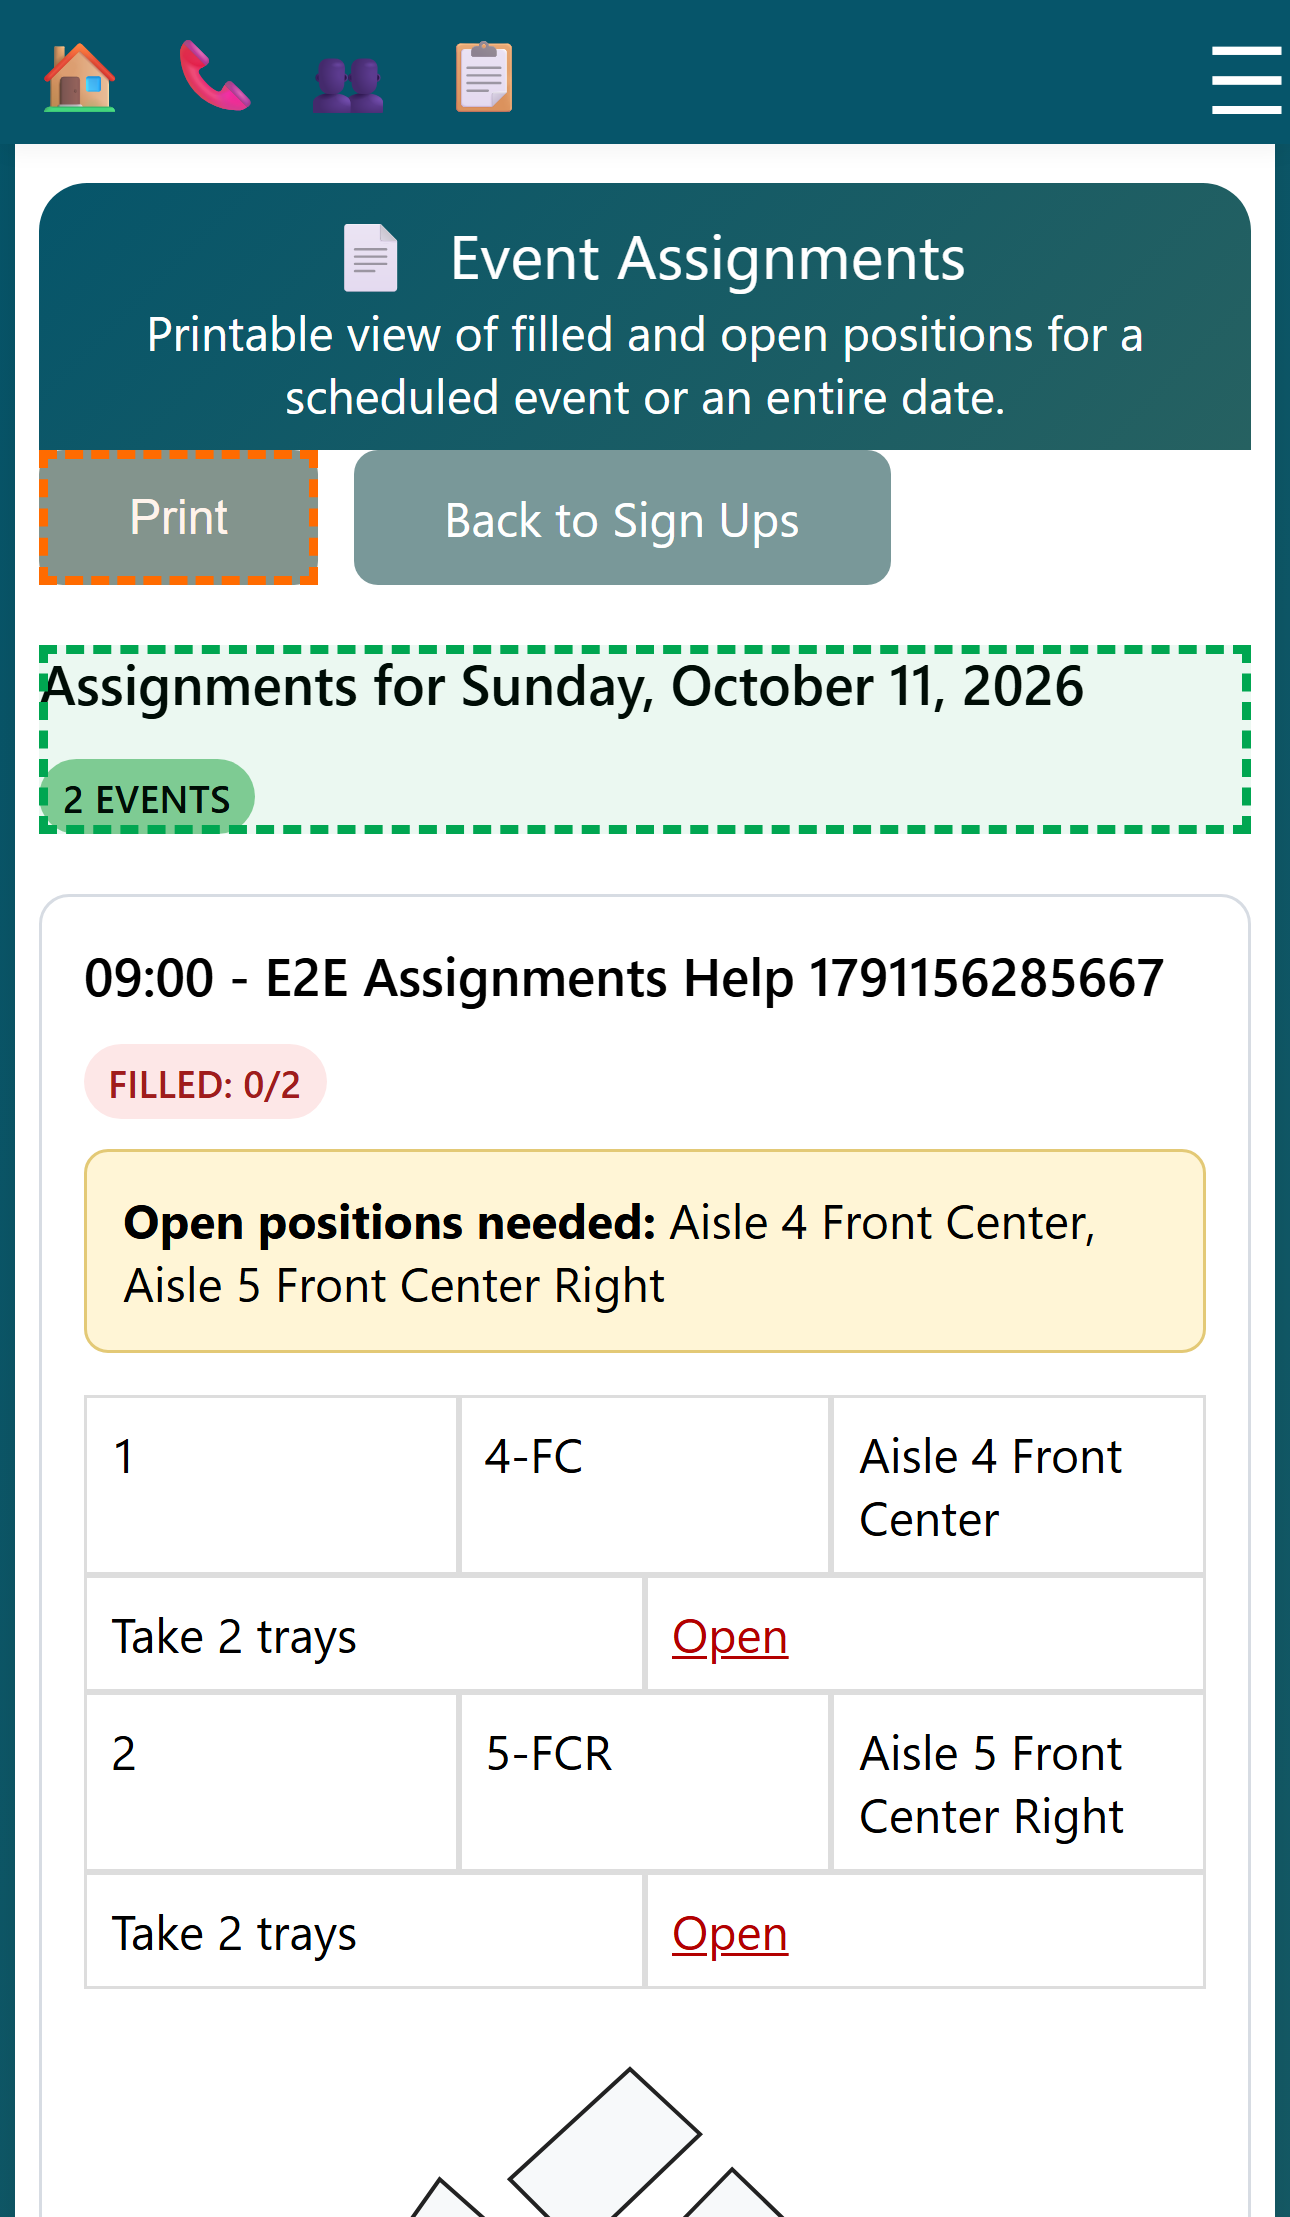
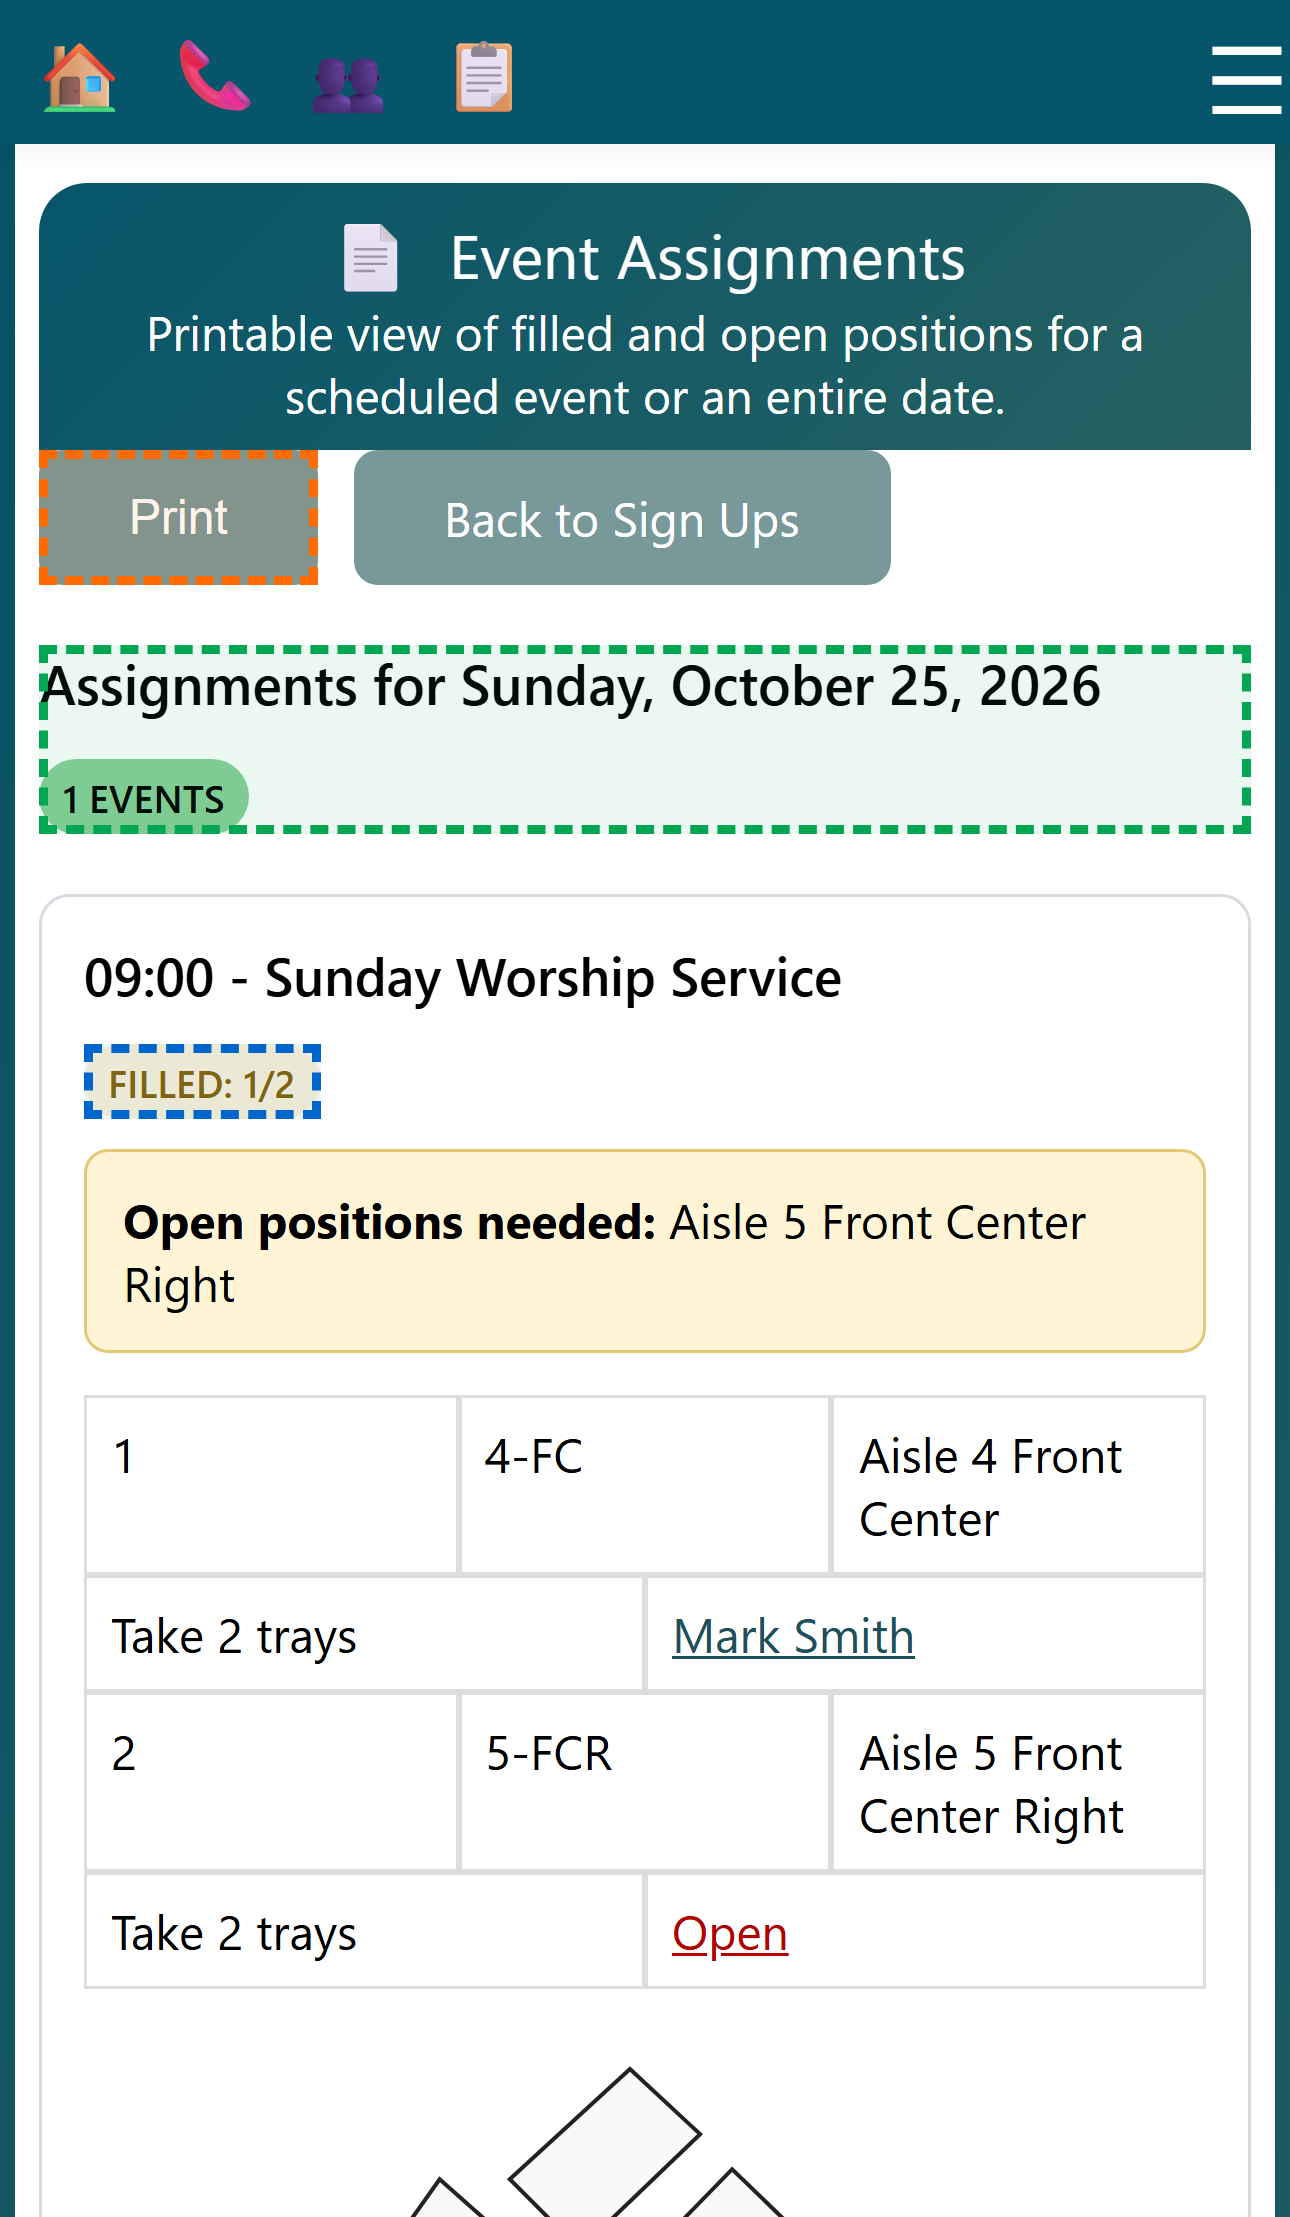
Fix event assignments Filled counts and Clear Assignment
- Return status inside event for /api/event-assignments (no extra queries)
- Clear every signup holding a position, not just the first
- Add unit and e2e coverage; refresh event-assignments help images

diff --git a/test/e2e/screenshots/event-assignments.spec.js b/test/e2e/screenshots/event-assignments.spec.js
@@ -1,11 +1,11 @@
 import { test, expect } from '@playwright/test';
 import { DEMO, highlightElement, loginAsEmail, seedDemoData, takeHelpScreenshot } from './capture-helpers.js';
 
-function getNextSundayDate() {
+function getNextSundayDate(weeksAhead = 0) {
   const date = new Date();
   const day = date.getDay();
   const daysUntilSunday = day === 0 ? 7 : 7 - day;
-  date.setDate(date.getDate() + daysUntilSunday);
+  date.setDate(date.getDate() + daysUntilSunday + weeksAhead * 7);
   return date.toISOString().split('T')[0];
 }
 
@@ -29,13 +29,14 @@ async function seedSchedulableEventType(page, eventType, title) {
 }
 
 test.describe('event assignments help screenshots', () => {
-  test('capture event assignments event view', async ({ page, request }) => {
+  test('capture event assignments event view', async ({ page, request }, testInfo) => {
     const stamp = Date.now();
     const eventType = `e2e-assignments-help-${stamp}`;
-    const eventTitle = `E2E Assignments Help ${stamp}`;
-    const serviceDate = getNextSundayDate();
+    const eventTitle = 'Sunday Worship Service';
+    // Projects share one server, so give each its own Sunday to keep the date view to a single event.
+    const serviceDate = getNextSundayDate(testInfo.project.name.includes('mobile') ? 1 : 0);
 
-    await seedDemoData(request);
+    const demo = await seedDemoData(request);
     await loginAsEmail(page, DEMO.staffEmail);
     await seedSchedulableEventType(page, eventType, eventTitle);
 
@@ -50,6 +51,13 @@ test.describe('event assignments help screenshots', () => {
     expect(createResponse.ok()).toBeTruthy();
     const created = await createResponse.json();
     expect(created.id).toBeTruthy();
+
+    // Fill one of the two positions so the Filled badge shows a realistic partial count.
+    const assignResponse = await page.request.put(`/api/events/${encodeURIComponent(created.id)}/assignments`, {
+      headers: { 'content-type': 'application/json' },
+      data: { assignments: [{ positionId: '4-FC', memberId: demo.deaconId }] }
+    });
+    expect(assignResponse.ok()).toBeTruthy();
 
     await page.goto(`/event-assignments.html?serviceDate=${encodeURIComponent(serviceDate)}`);
     await page.waitForLoadState('networkidle');
@@ -67,7 +75,12 @@ test.describe('event assignments help screenshots', () => {
     await expect(assignmentHeader).toBeVisible();
     await expect(assignmentsTableWrap).toBeVisible();
     await expect(page.locator('.worship-map').first()).toBeVisible();
+    const filledBadge = page.getByText('Filled: 1/2');
+    await expect(filledBadge).toBeVisible();
+    await expect(page.locator('.assignment-edit-trigger', { hasText: DEMO.deaconFirstName })).toHaveCount(1);
+    await expect(page.locator('.assignment-edit-trigger', { hasText: 'Open' })).toHaveCount(1);
 
+    await highlightElement(page, filledBadge, 'blue');
     await highlightElement(page, assignmentHeader, 'green');
     await highlightElement(page, printButton, 'orange');
     await takeHelpScreenshot(page, 'event-assignments-event.png');

diff --git a/test/events-api.test.js b/test/events-api.test.js
@@ -385,7 +385,10 @@ describe('events API routes', () => {
       headers: { 'x-api-key': 'test-generation-key' }
     });
     expect(dateAssignmentsResponse.status).toBe(200);
-    expect((await dateAssignmentsResponse.json())[0].canManageAssignments).toBe(true);
+    const dateAssignments = await dateAssignmentsResponse.json();
+    expect(dateAssignments[0].canManageAssignments).toBe(true);
+    expect(dateAssignments[0].event.status).toEqual(dateAssignments[0].status);
+    expect(dateAssignments[0].event.status.totalPositions).toBeGreaterThan(0);
 
     const saveResponse = await app.request(`/api/events/${created.id}/assignments`, {
       method: 'PUT',
@@ -396,6 +399,37 @@ describe('events API routes', () => {
       body: JSON.stringify({ assignments: [{ positionId: 'P2', memberId: 'member-1' }] })
     });
     expect(saveResponse.status).toBe(200);
+
+    const clearResponse = await app.request(`/api/events/${created.id}/assignments`, {
+      method: 'PUT',
+      headers: {
+        'x-api-key': 'test-generation-key',
+        'Content-Type': 'application/json'
+      },
+      body: JSON.stringify({ assignments: [{ positionId: 'P2', memberId: null }] })
+    });
+    expect(clearResponse.status).toBe(200);
+    const cleared = await clearResponse.json();
+    expect(cleared.event.positions.find(p => p.positionId === 'P2').assignedMember).toBeNull();
+
+    const afterClear = await (await app.request('/api/event-assignments?serviceDate=2026-06-07', {
+      headers: { 'x-api-key': 'test-generation-key' }
+    })).json();
+    expect(afterClear[0].positions.find(p => p.positionId === 'P2').assignedMember).toBeNull();
+    expect(afterClear[0].status.filledCount).toBe(0);
+
+    // Duplicate signups holding the same position must all be released by one clear.
+    for (const memberId of ['member-1', 'member-1b']) {
+      mockState.event_signups.push({
+        _id: `dup-${memberId}`, calendarId: created.id, memberId, isAvailable: true, assignedPositionId: 'P2'
+      });
+    }
+    const dupClear = await app.request(`/api/events/${created.id}/assignments`, {
+      method: 'PUT',
+      headers: { 'x-api-key': 'test-generation-key', 'Content-Type': 'application/json' },
+      body: JSON.stringify({ assignments: [{ positionId: 'P2', memberId: null }] })
+    });
+    expect((await dupClear.json()).event.positions.find(p => p.positionId === 'P2').assignedMember).toBeNull();
   });
 
   test('resolveCancelGroup groups shared dependents under the owner type scheduled that day', async () => {

diff --git a/src/api/events.js b/src/api/events.js
@@ -982,19 +982,18 @@ async function markMemberUnavailable(loaded, memberId, unavailableReason = null)
   }
 }
 
-// Free whichever single signup currently holds this position; returns their memberId, if any.
+// Free every signup that currently holds this position (duplicates can exist); returns the freed memberIds.
 async function clearPositionOccupant(calendarId, positionId) {
-  const occupant = await safeCollectionFindOne('event_signups', { calendarId, assignedPositionId: positionId });
-  if (!occupant) {
-    return null;
+  const occupants = await safeCollectionFind('event_signups', { calendarId, assignedPositionId: positionId });
+  const now = new Date().toISOString();
+  for (const occupant of occupants) {
+    await safeCollectionUpdate(
+      'event_signups',
+      { _id: occupant._id },
+      { $set: { assignedPositionId: null, updatedAt: now } }
+    );
   }
-
-  await safeCollectionUpdate(
-    'event_signups',
-    { _id: occupant._id },
-    { $set: { assignedPositionId: null, updatedAt: new Date().toISOString() } }
-  );
-  return occupant.memberId;
+  return occupants.map(occupant => occupant.memberId);
 }
 
 // Directly place one member into a position. Frees whoever previously held that position
@@ -1590,12 +1589,15 @@ export default function registerEventRoutes(app) {
           ? await canManageAssignments(c, { calendarSlot: event, eventDefinition: definition }, eventTypeConfigMap)
           : false;
 
+        // Derived from positions already loaded above; no extra queries.
+        const status = deriveEventStatusFromPositions(enrichedPositions);
+
         return {
-          event,
+          event: { ...event, status },
           positions: enrichedPositions,
           filledPositions,
           openPositions,
-          status: deriveEventStatusFromPositions(enrichedPositions),
+          status,
           eventType: eventTypeConfig ? eventTypeConfig.title : event.eventType,
           cancelGroup: resolveCancelGroup(event.eventType, eventTypeConfigMap, eventTypeNames),
           canManageAssignments: canManage

diff --git a/test/e2e/specs/event-assignments-page.spec.js b/test/e2e/specs/event-assignments-page.spec.js
@@ -14,6 +14,37 @@ test.describe('event assignments page (site-only)', () => {
     await expect(page).toHaveURL(/email-login\.html/);
   });
 
+  test('date view shows real Filled counts and Clear Assignment empties the position', async ({ page }) => {
+    const seed = readCancelSeed().assignClear;
+    await authenticateAsSeededMember(page, 'staff');
+
+    await page.goto(`/event-assignments.html?serviceDate=${encodeURIComponent(seed.serviceDate)}`);
+    await expect(page.getByText('Filled: 1/1')).toBeVisible();
+
+    await page.locator('.assignment-edit-trigger', { hasText: 'SortStaff' }).click();
+    await page.getByRole('button', { name: 'Clear Assignment' }).click();
+
+    await expect(page.getByText('Assignments updated.')).toBeVisible();
+    await expect(page.getByText('Filled: 0/1')).toBeVisible();
+    await expect(page.locator('.assignment-edit-trigger', { hasText: 'Open' })).toHaveCount(1);
+    await expect(page.locator('.assignment-edit-trigger', { hasText: 'SortStaff' })).toHaveCount(0);
+
+    await page.reload();
+    await expect(page.getByText('Filled: 0/1')).toBeVisible();
+
+    await page.goto('/sign-ups.html');
+    const card = page.locator('.signups-event-card', { hasText: seed.title });
+    await expect(card.getByText('Filled: 0/1')).toBeVisible();
+  });
+
+  test('single event view shows real Filled count', async ({ page }) => {
+    const seed = readCancelSeed().denied;
+    await authenticateAsSeededMember(page, 'staff');
+
+    await page.goto(`/event-assignments.html?eventId=${encodeURIComponent(seed.eventId)}`);
+    await expect(page.getByText(/Filled: \d+\/1/)).toBeVisible();
+  });
+
   test('deacon without leader access does not see Cancel Event', async ({ page }) => {
     const seed = readCancelSeed();
     await authenticateAsSeededMember(page, 'deacon');

diff --git a/test/e2e/support/global-setup.js b/test/e2e/support/global-setup.js
@@ -149,7 +149,28 @@ async function seedCancellableEvents(post, staff) {
   const thirdSunday = new Date(followingSunday);
   thirdSunday.setUTCDate(thirdSunday.getUTCDate() + 7);
 
+  // One event with a pre-filled position so specs can verify Filled counts and Clear Assignment.
+  const fourthSunday = new Date(thirdSunday);
+  fourthSunday.setUTCDate(fourthSunday.getUTCDate() + 7);
+  const fourthDate = fourthSunday.toISOString().split('T')[0];
+  await staffPost('/api/events/types', {
+    eventType: 'e2e-assign-clear',
+    title: 'E2E Assign Clear',
+    allowedRoles: ['deacon', 'staff'],
+    assignmentRoles: ['deacon', 'staff'],
+    defaultPositions: [{ positionId: 'AC-1', label: 'Assign Clear Spot', priority: 1, isCritical: true }],
+    isActive: true,
+  });
+  const assignCreated = await staffPost('/api/events', { eventType: 'e2e-assign-clear', serviceDate: fourthDate, serviceTime: '09:00' });
+  const assignRes = await fetch(`${baseURL}/api/events/${assignCreated.id}/assignments`, {
+    method: 'PUT',
+    headers: { 'content-type': 'application/json', authorization: 'Bearer ' + token },
+    body: JSON.stringify({ assignments: [{ positionId: 'AC-1', memberId: staff.memberId }] }),
+  });
+  if (!assignRes.ok) throw new Error(`seed assignment failed: ${assignRes.status}`);
+
   return {
+    assignClear: { title: 'E2E Assign Clear', serviceDate: fourthDate, eventId: assignCreated.id },
     denied: await seedGroup('e2e-cancel-view', 'E2E Cancel View', sunday),
     flow: await seedGroup('e2e-cancel-flow', 'E2E Cancel Flow', followingSunday.toISOString().split('T')[0]),
     dateView: await seedGroup('e2e-cancel-date', 'E2E Cancel Date', thirdSunday.toISOString().split('T')[0]),

diff --git a/site/help/CAPTURE_GUIDE.md b/site/help/CAPTURE_GUIDE.md
@@ -59,5 +59,5 @@ Do not finish capture work if any output category is non-empty (`missing-desktop
 | assign-deacons-selection.png | test/e2e/screenshots/summary-quick-assign.spec.js | Assign deacons list with one person selected | Selected checkbox |
 | sign-ups-availability.png | test/e2e/screenshots/sign-ups.spec.js | Sign Ups page with an upcoming event | Availability buttons |
 | event-schedule-form.png | test/e2e/screenshots/event-schedule.spec.js | Schedule Event form with selected service times | Event type select and service time controls |
-| event-assignments-event.png | test/e2e/screenshots/event-assignments.spec.js | Event Assignments page for a single event | Header and Print button |
+| event-assignments-event.png | test/e2e/screenshots/event-assignments.spec.js | Event Assignments page for a single event with one of two positions filled (Filled: 1/2) | Filled badge (blue), Header (green) and Print button (orange) |
 | event-assignments-cancel.png | test/e2e/screenshots/event-assignments.spec.js | Bottom of a single-event assignment page | Cancel <event type> button |

diff --git a/docs/API_USAGE.md b/docs/API_USAGE.md
@@ -398,7 +398,7 @@ This document describes what each API endpoint is used for and the input/output 
 - Input:
   - Query: required `serviceDate` (`YYYY-MM-DD`)
 - Output:
-  - 200: `Array<{ event, positions, filledPositions, openPositions, status, eventType }>`
+  - 200: `Array<{ event, positions, filledPositions, openPositions, status, eventType }>`; `event.status` carries the same counts as the top-level `status` (derived from the already-loaded positions, no extra queries)
   - 400: missing query
 
 ### `PUT /api/events/:eventId/assignments`
